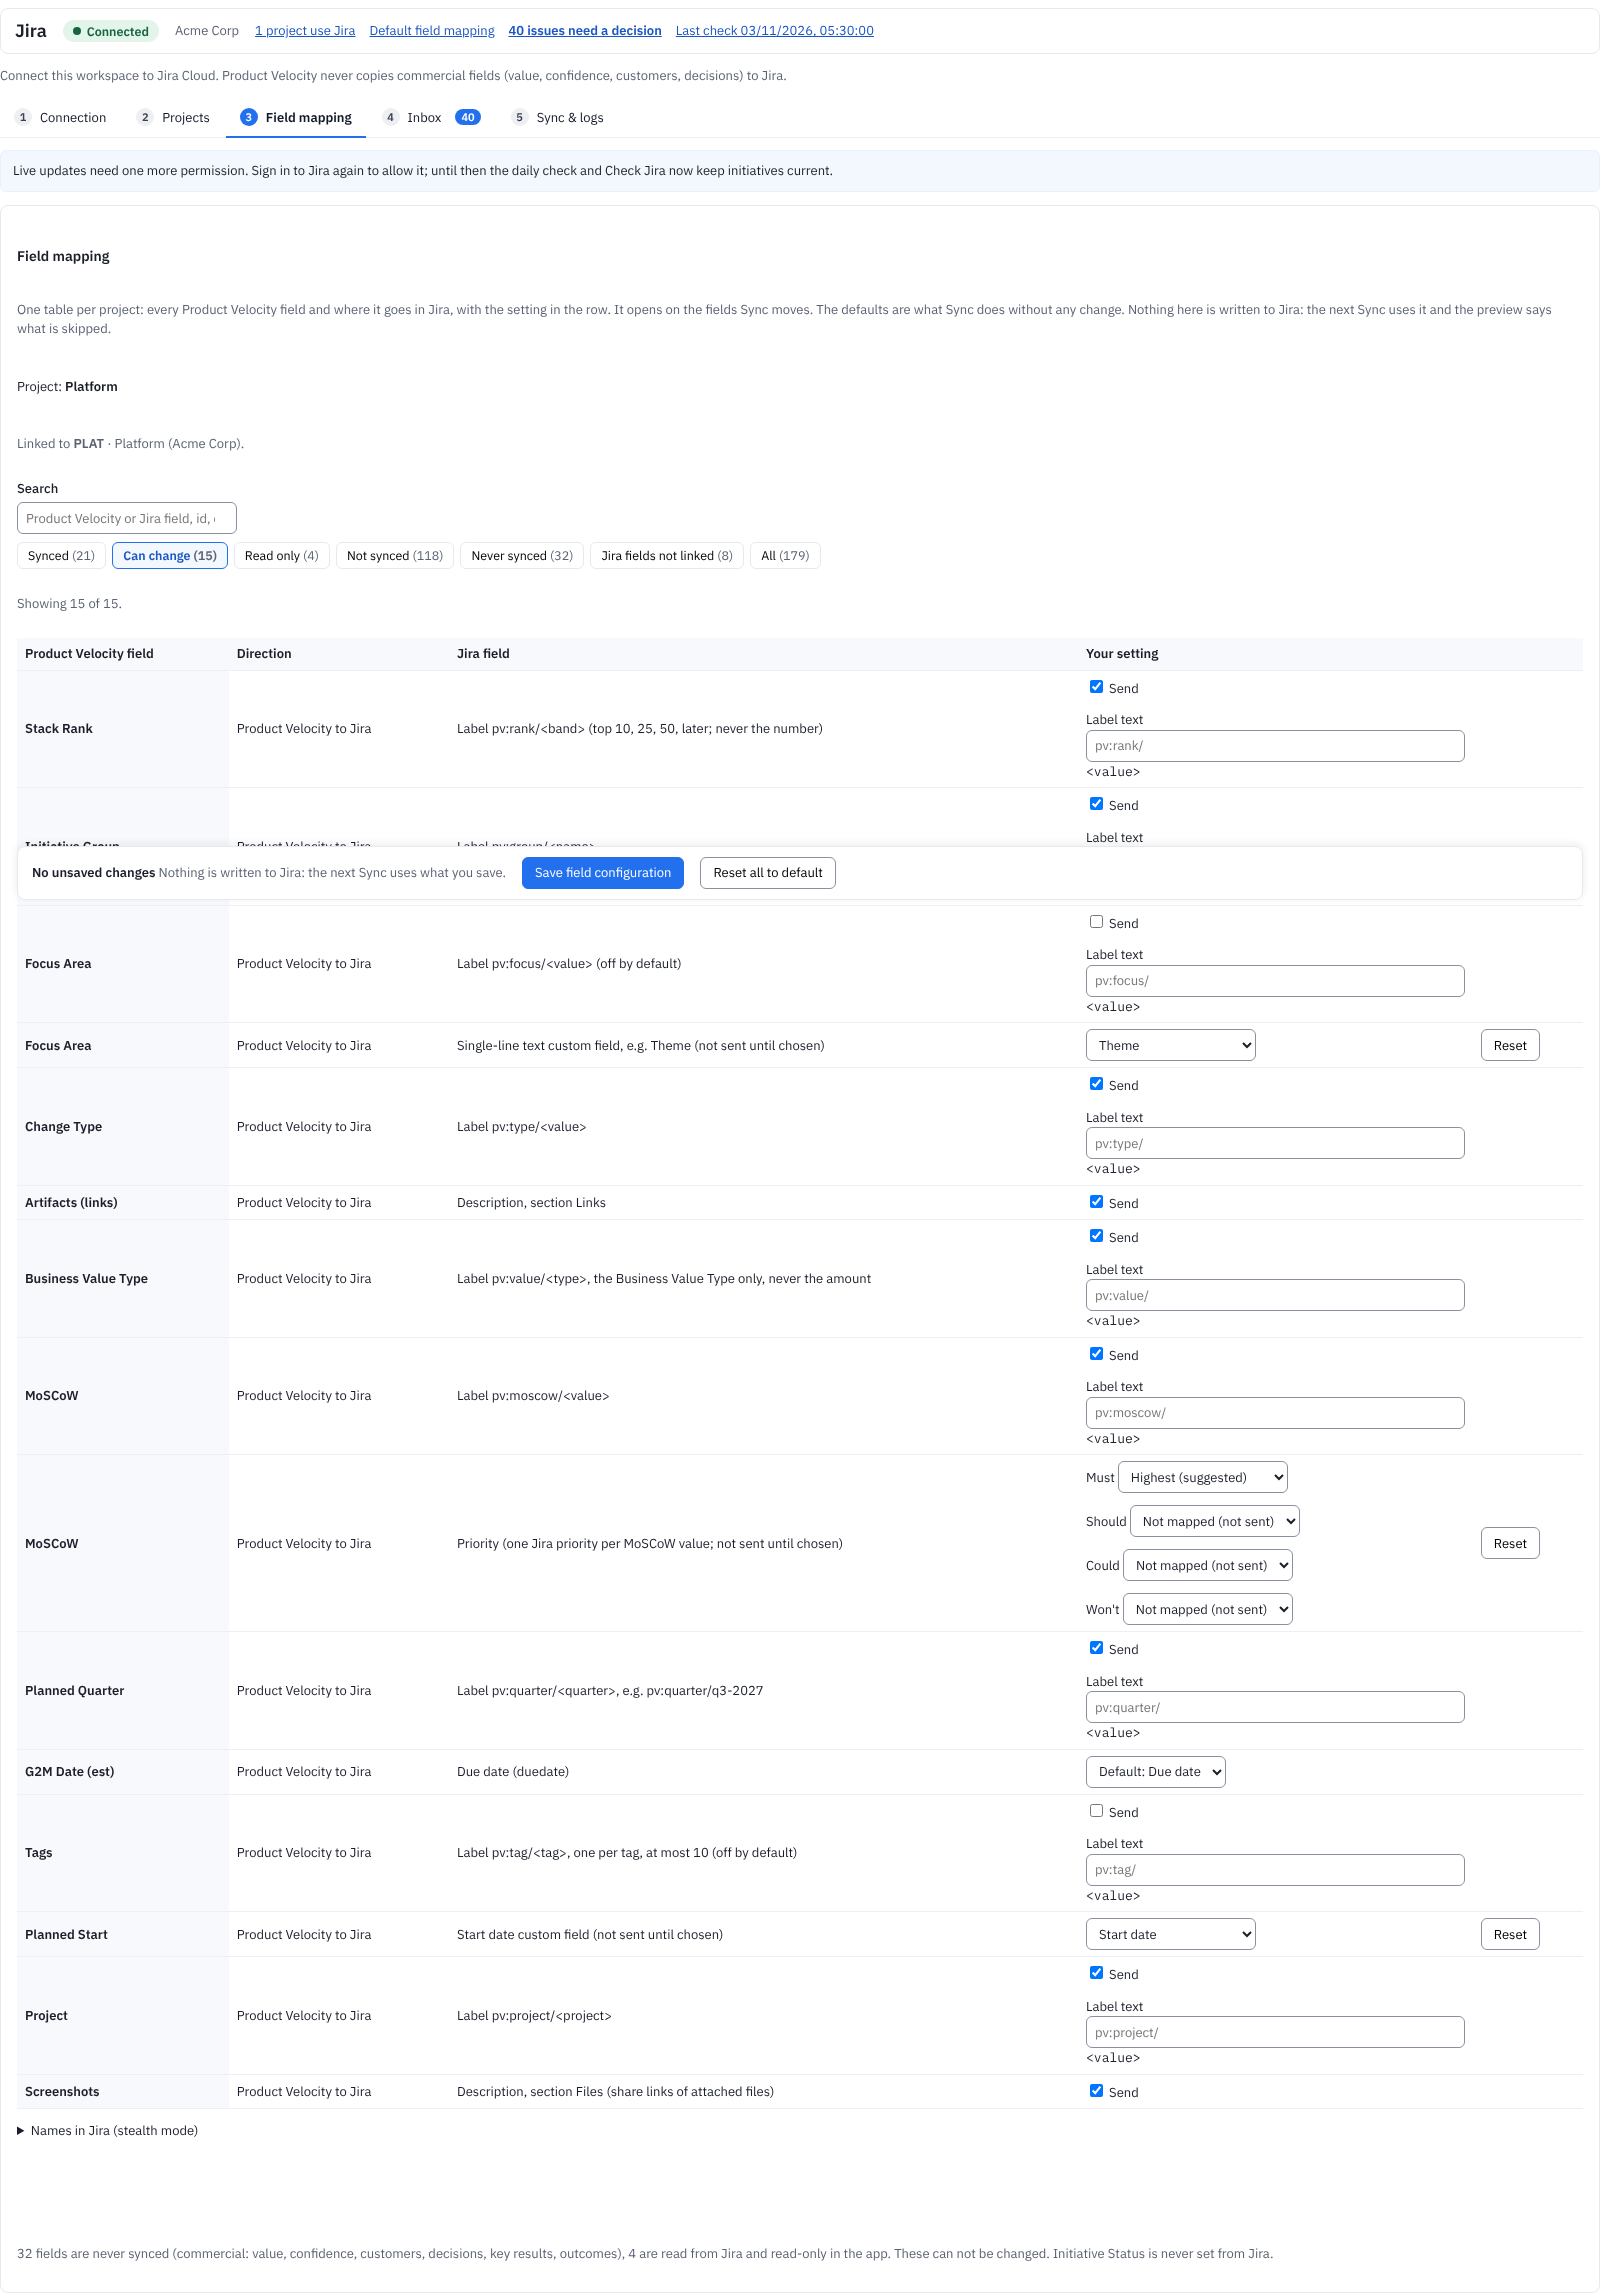
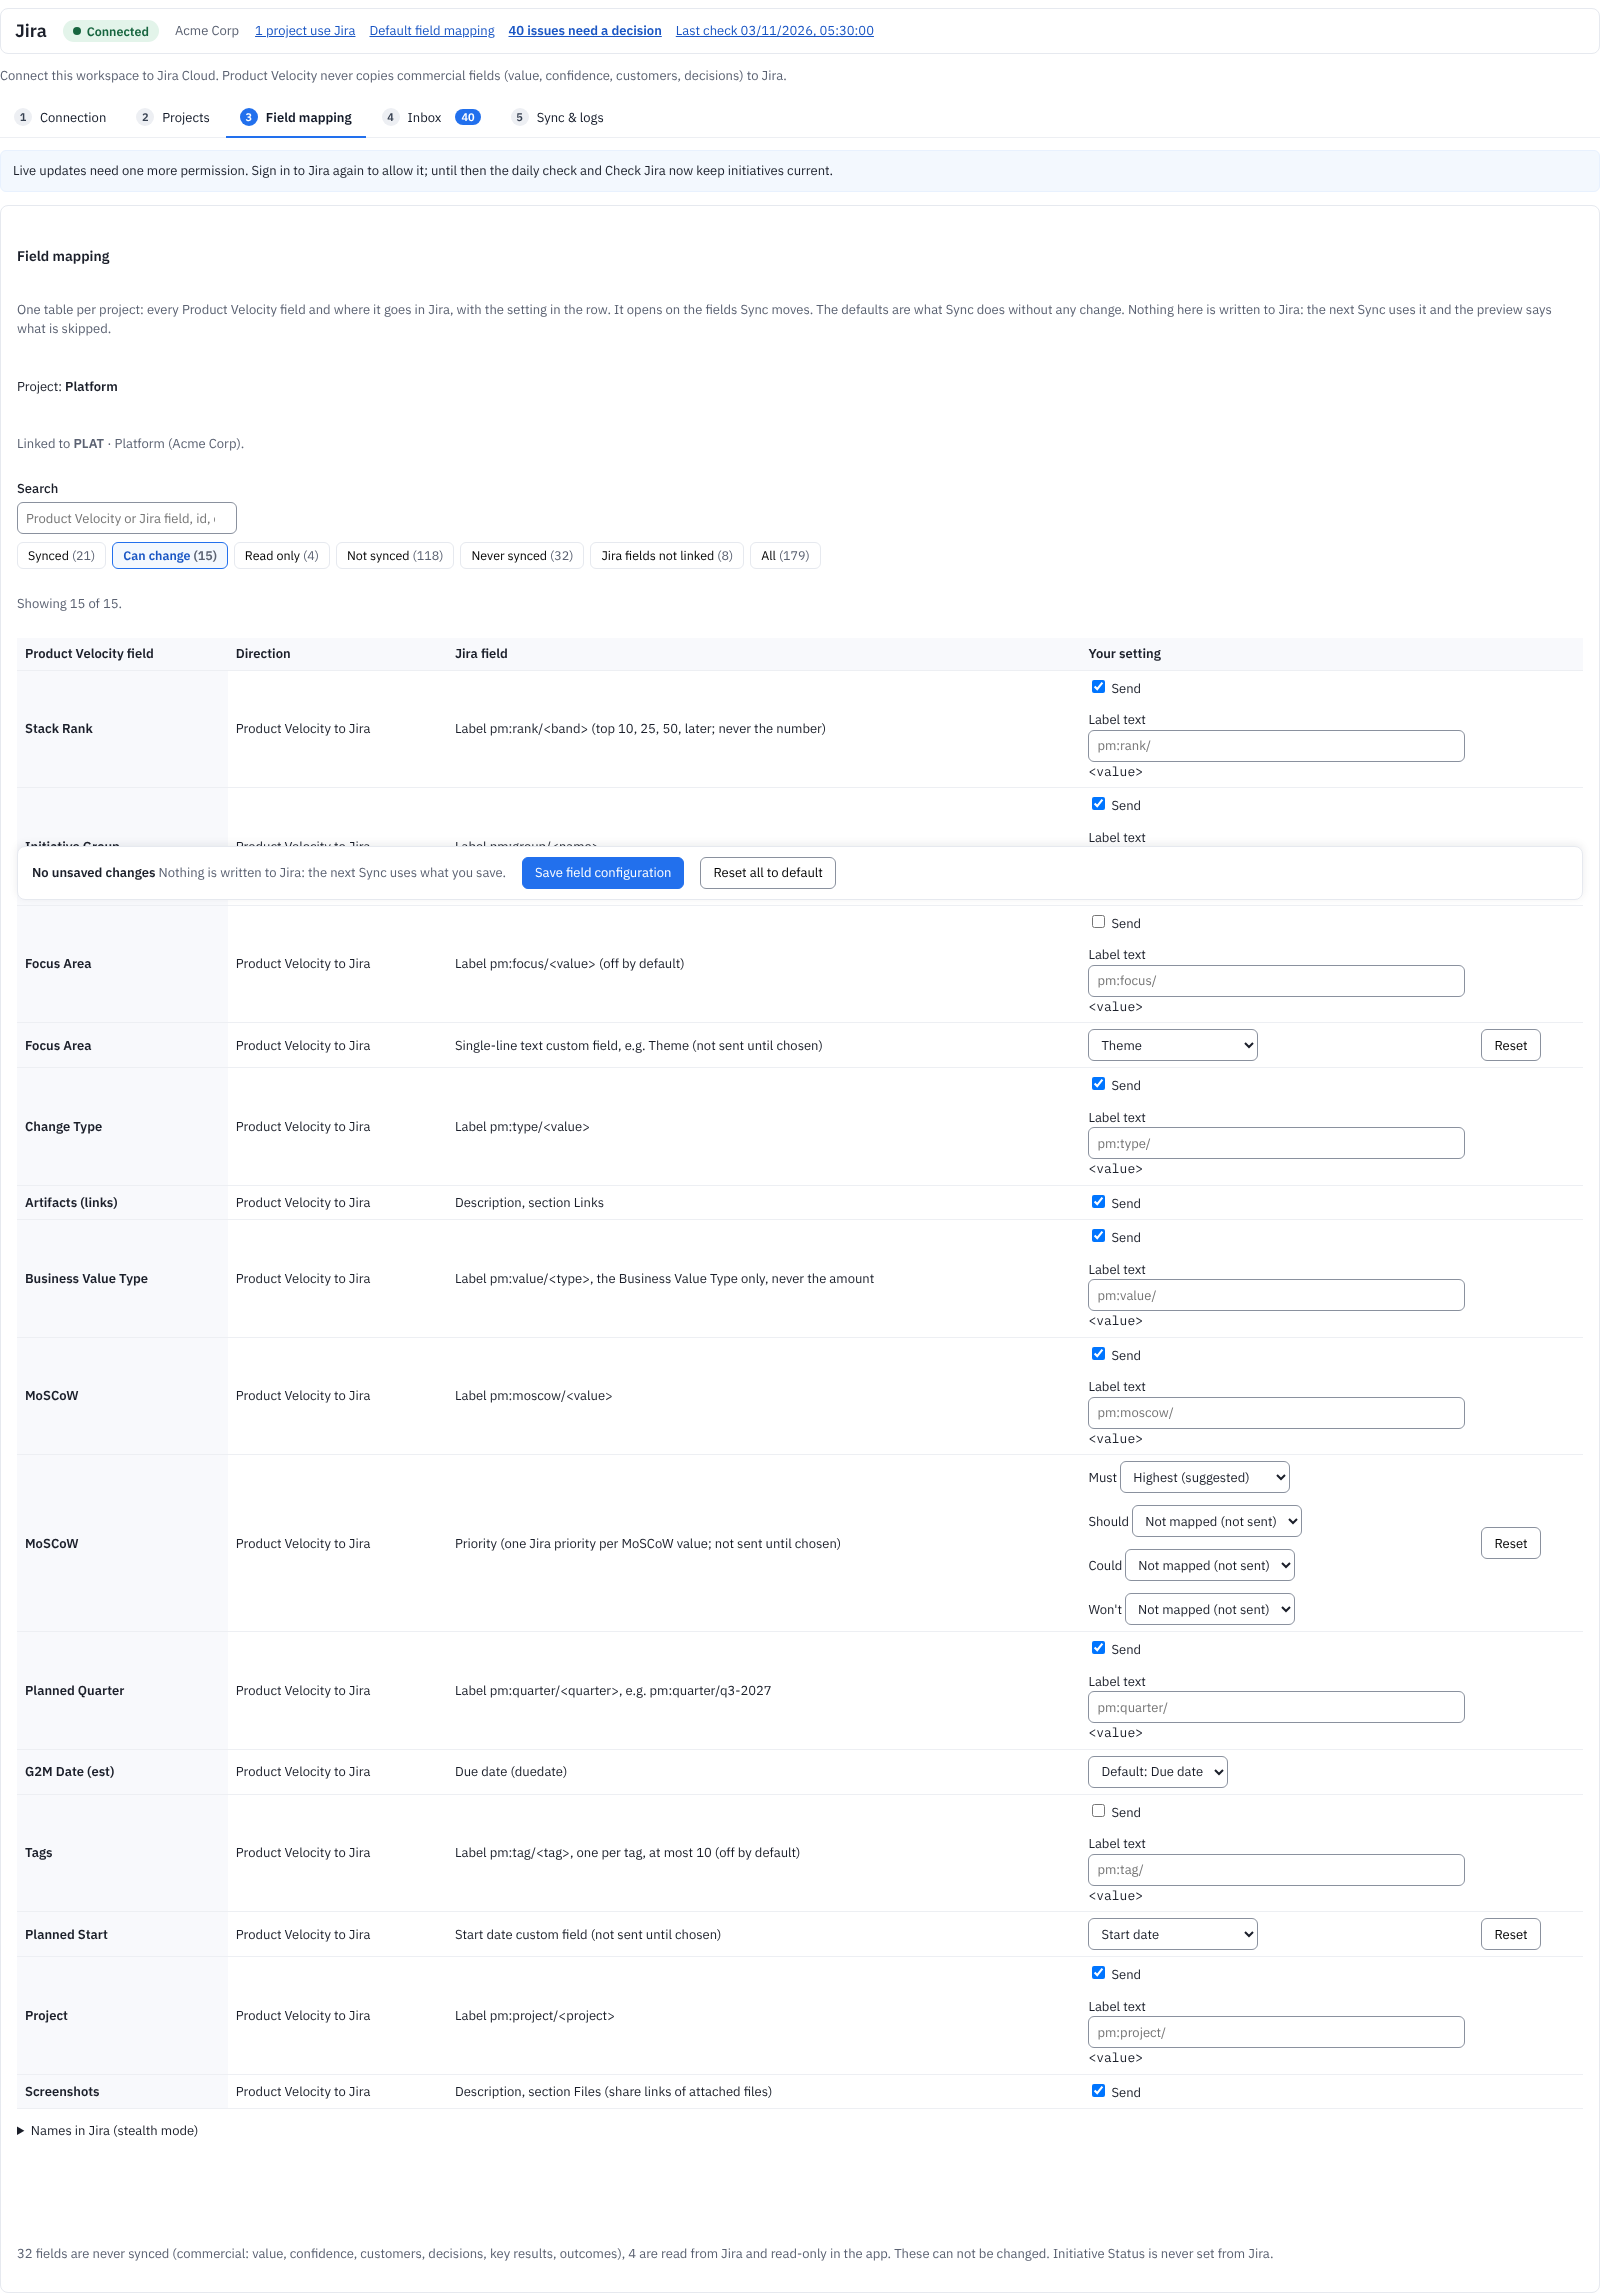
test: field mapping specs follow the pm: default labels
Claude-Session: https://claude.ai/code/session_01TMdyHrhxsdZdVQLFsuASKD

Changed region(s): [[0.6875, 0.4025, 0.8125, 0.898], [0.6875, 0.2787, 0.7188, 0.3716], [0.75, 0.6193, 0.7812, 0.6502]]

diff --git a/apps/web/e2e/jira-settings.spec.ts b/apps/web/e2e/jira-settings.spec.ts
@@ -110,7 +110,7 @@ test.describe("Jira settings, laid out like GitHub (decision 2026-11-03-tracker-
       await expect(form.getByLabel("Jira priority for MoSCoW “Should”").locator("option", { hasText: "High (suggested)" })).toHaveCount(1);
       // defaults: the due date goes to Jira's Due date, every label is sent
       await expect(form.getByLabel("G2M Date (est): Due date (duedate)")).toHaveValue("");
-      await expect(form.getByLabel("Send MoSCoW: Label pv:moscow/<value>")).toBeChecked();
+      await expect(form.getByLabel("Send MoSCoW: Label pm:moscow/<value>")).toBeChecked();
       await expect(form.getByRole("button", { name: "Save field configuration of Platform" })).toBeVisible();
       await expect(form.getByRole("button", { name: "Reset all to default for Platform" })).toBeVisible();
       // it opens on "Synced": the name and the description are fixed and in the list; the commercial fields are not shown
@@ -137,16 +137,16 @@ test.describe("Jira settings, laid out like GitHub (decision 2026-11-03-tracker-
       await page.screenshot({ path: "../../docs/screenshots/field-config-jira.png", fullPage: true });
       // unsaved changes are announced
       await expect(card.getByText("No unsaved changes")).toBeVisible();
-      await form.getByLabel("Send MoSCoW: Label pv:moscow/<value>").uncheck();
+      await form.getByLabel("Send MoSCoW: Label pm:moscow/<value>").uncheck();
       await expect(card.getByText("Unsaved changes", { exact: true })).toBeVisible();
       // changed settings are marked and can be reset one by one
       await page.goto("/dev/jira/mapping?config=changed");
       const changed = page.getByRole("form", { name: "Field configuration of Platform" });
-      await expect(changed.getByLabel("Send MoSCoW: Label pv:moscow/<value>")).not.toBeChecked();
+      await expect(changed.getByLabel("Send MoSCoW: Label pm:moscow/<value>")).not.toBeChecked();
       await expect(changed.getByLabel("G2M Date (est): Due date (duedate)")).toHaveValue("customfield_10016");
       await page.getByRole("button", { name: /^Can change/ }).click();
-      await expect(changed.getByRole("button", { name: "Reset MoSCoW (Label pv:moscow/<value>) to the default" })).toBeVisible();
-      await expect(changed.getByRole("button", { name: "Reset Stack Rank (Label pv:rank/<band> (top 10, 25, 50, later; never the number)) to the default" })).toHaveCount(0);
+      await expect(changed.getByRole("button", { name: "Reset MoSCoW (Label pm:moscow/<value>) to the default" })).toBeVisible();
+      await expect(changed.getByRole("button", { name: "Reset Stack Rank (Label pm:rank/<band> (top 10, 25, 50, later; never the number)) to the default" })).toHaveCount(0);
       await page.goto("/dev/jira/mapping?fields=unreadable");
       await expect(page.getByText("could not be read just now").first()).toBeVisible();
       await page.goto("/dev/jira/mapping?role=viewer");

diff --git a/apps/web/e2e/tracker-field-config.spec.ts b/apps/web/e2e/tracker-field-config.spec.ts
@@ -6,7 +6,7 @@ test.describe("GitHub field mapping", () => {
   test("the default list with the board's fields, the switches, the filters and the fields GitHub shows that nothing uses", async ({ page }) => {
     await page.goto("/dev/field-config");
     const form = page.getByRole("form", { name: "Field configuration of Platform" });
-    await expect(form.getByLabel("Send MoSCoW: Label pv:moscow/<value>")).toBeChecked();
+    await expect(form.getByLabel("Send MoSCoW: Label pm:moscow/<value>")).toBeChecked();
     await expect(form.getByLabel("Send G2M Date (est): Milestone “YYYY Qn” (the quarter of the G2M date)")).toBeChecked();
     await expect(form.getByLabel("Send Change Type: Organisation issue type (Feature, Improvement or Bug), when the organisation has it")).toBeChecked();
     // board fields are saved by the Project boards card; this list shows what is chosen there
@@ -25,7 +25,7 @@ test.describe("GitHub field mapping", () => {
   test("changed settings, no board, a denied permission and an unreadable board say so", async ({ page }) => {
     await page.goto("/dev/field-config?config=changed&board=none&fields=denied");
     const form = page.getByRole("form", { name: "Field configuration of Platform" });
-    await expect(form.getByLabel("Send Stack Rank: Label pv:rank/<band> (top 10, 25, 50, later; never the number)")).not.toBeChecked();
+    await expect(form.getByLabel("Send Stack Rank: Label pm:rank/<band> (top 10, 25, 50, later; never the number)")).not.toBeChecked();
     await page.getByRole("button", { name: /^Can change/ }).click();
     await expect(form.getByRole("button", { name: /Reset Stack Rank/ })).toBeVisible();
     await expect(form.getByRole("row", { name: /MoSCoW.*Priority/ })).toContainText("No board is linked to this project.");
